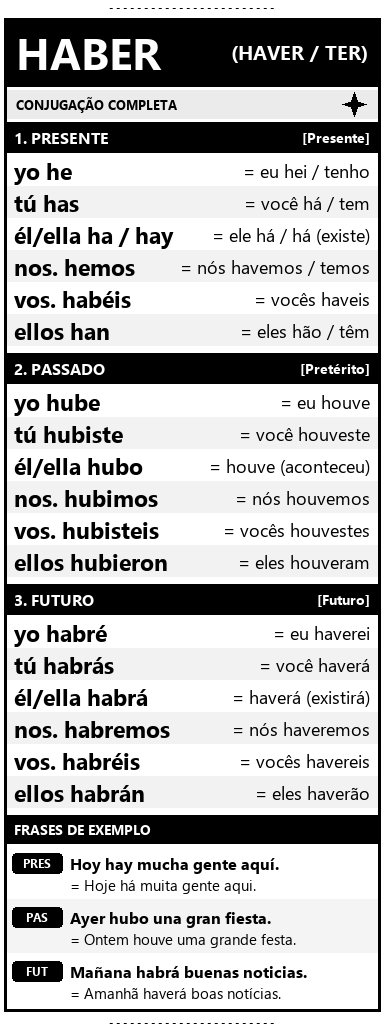
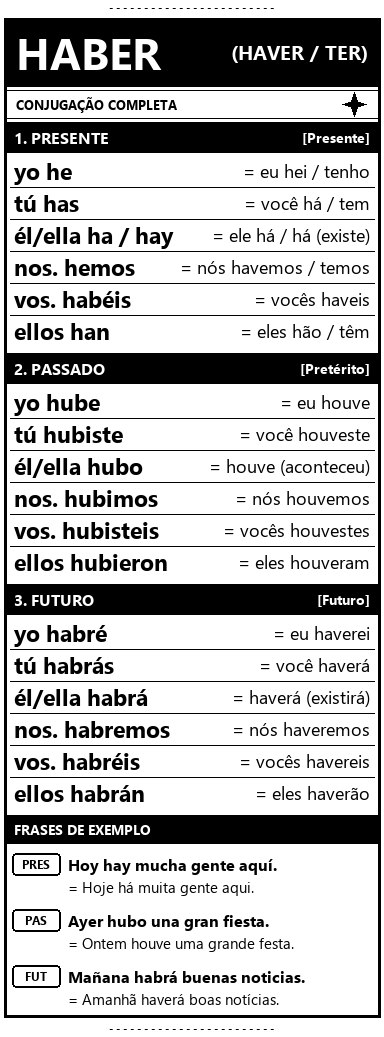
style: replace gray zebra shading with thin 1px dividers, convert black chips to clean outlined badges, and optimize motor pacing

Changed region(s): [[0.0312, 0.031, 0.9688, 0.9932], [0.1562, 0.031, 0.1875, 0.0621]]

diff --git a/generate_verb_strip.py b/generate_verb_strip.py
@@ -703,13 +703,13 @@ def generate_verb_strip(verb_key: str) -> Image.Image:
     draw.text((WIDTH - 16, y + 34), f"({data['pt']})", fill=(255, 255, 255), anchor="rm", font=get_font(20, bold=True))
     y += 72
 
-    # 2. Barra de Ícone
-    draw.rectangle([(4, y), (WIDTH - 4, y + 28)], fill=(235, 235, 235))
+    # 2. Barra de Ícone limpa (Fundo branco com linha fina)
+    draw.rectangle([(4, y), (WIDTH - 4, y + 28)], outline=(0, 0, 0), width=1, fill=(255, 255, 255))
     draw.text((16, y + 14), "CONJUGAÇÃO COMPLETA", fill=(0, 0, 0), anchor="lm", font=get_font(13, bold=True))
     draw_generic_icon(draw, data.get("icon", "check"), WIDTH - 48, y + 2)
     y += 32
 
-    # 3. Blocos de Conjugação com FONTES GIGANTES (23pt BOLD / 18pt PT)
+    # 3. Blocos de Conjugação (Zero cinza, linhas divisórias finas de 1px)
     font_es = get_font(23, bold=True)
     font_pt = get_font(18, bold=False)
     
@@ -728,12 +728,13 @@ def generate_verb_strip(verb_key: str) -> Image.Image:
             f_pt_cur = font_pt if w_total <= WIDTH - 20 else get_font(16, bold=False)
 
             row_h = 32
-            if idx % 2 == 1:
-                draw.rectangle([(4, cur_y - 1), (WIDTH - 4, cur_y + row_h - 2)], fill=(242, 242, 242))
-            
             draw.text((14, cur_y + row_h // 2 - 1), es_clean, fill=(0, 0, 0), anchor="lm", font=f_es_cur)
             draw.text((WIDTH - 14, cur_y + row_h // 2 - 1), f"= {pt}", fill=(0, 0, 0), anchor="rm", font=f_pt_cur)
             cur_y += row_h
+
+            # Linha divisória fina de 1px entre cada linha
+            if idx < len(conjugations) - 1:
+                draw.line([(10, cur_y), (WIDTH - 10, cur_y)], fill=(0, 0, 0), width=1)
             
         return cur_y + 6
 
@@ -741,7 +742,7 @@ def generate_verb_strip(verb_key: str) -> Image.Image:
     y = render_tense_block(y, "2. PASSADO", "Pretérito", data["past"])
     y = render_tense_block(y, "3. FUTURO", "Futuro", data["future"])
 
-    # 4. Frases de Demonstração
+    # 4. Frases de Demonstração (Tags vazadas com contorno fino - sem 'chip preto')
     draw.rectangle([(4, y), (WIDTH - 4, y + 28)], fill=(0, 0, 0))
     draw.text((14, y + 14), "FRASES DE EXEMPLO", fill=(255, 255, 255), anchor="lm", font=get_font(14, bold=True))
     y += 30
@@ -750,19 +751,20 @@ def generate_verb_strip(verb_key: str) -> Image.Image:
     font_ex_pt = get_font(15, bold=False)
 
     for idx, (tense, es_phrase, pt_phrase) in enumerate(data["examples"]):
-        bg_col = (255, 255, 255) if idx % 2 == 0 else (244, 244, 244)
-        box_h = 54
-        draw.rectangle([(4, y), (WIDTH - 4, y + box_h)], fill=bg_col)
+        box_h = 56
+        draw.rectangle([(4, y), (WIDTH - 4, y + box_h)], fill=(255, 255, 255))
         
-        draw.rounded_rectangle([(12, y + 8), (62, y + 28)], radius=4, fill=(0, 0, 0))
-        draw.text((37, y + 18), tense, fill=(255, 255, 255), anchor="mm", font=get_font(12, bold=True))
+        # Tag vazada com contorno de 1px (evita o borrão preto)
+        tag_w = 48
+        draw.rounded_rectangle([(12, y + 8), (12 + tag_w, y + 30)], radius=4, outline=(0, 0, 0), width=2, fill=(255, 255, 255))
+        draw.text((12 + tag_w // 2, y + 19), tense, fill=(0, 0, 0), anchor="mm", font=get_font(12, bold=True))
         
-        draw.text((70, y + 18), es_phrase, fill=(0, 0, 0), anchor="lm", font=font_ex_es)
-        draw.text((70, y + 39), f"= {pt_phrase}", fill=(0, 0, 0), anchor="lm", font=font_ex_pt)
+        draw.text((68, y + 19), es_phrase, fill=(0, 0, 0), anchor="lm", font=font_ex_es)
+        draw.text((68, y + 41), f"= {pt_phrase}", fill=(0, 0, 0), anchor="lm", font=font_ex_pt)
         
         y += box_h
         if idx < len(data["examples"]) - 1:
-            draw.line([(12, y), (WIDTH - 12, y)], fill=(200, 200, 200), width=1)
+            draw.line([(10, y), (WIDTH - 10, y)], fill=(0, 0, 0), width=1)
 
     y += 4
     draw.rectangle([(4, card_start_y), (WIDTH - 4, y)], outline=(0, 0, 0), width=3)

diff --git a/phomemo.py b/phomemo.py
@@ -86,8 +86,8 @@ class PhomemoM02:
         self.ser.flush()
         time.sleep(0.05)
 
-        # Transmissão em blocos de 32 linhas para respeitar o buffer de memória da M02
-        CHUNK_ROWS = 32
+        # Transmissão contínua em blocos de 48 linhas para fluxo suave sem travadinhas
+        CHUNK_ROWS = 48
         for start_y in range(0, height, CHUNK_ROWS):
             block_height = min(CHUNK_ROWS, height - start_y)
             block_data = bytearray()
@@ -110,8 +110,8 @@ class PhomemoM02:
 
             self.ser.write(block_data)
             self.ser.flush()
-            # Pausa para o cabeçote térmico processar as 32 linhas sem estourar o buffer
-            time.sleep(0.22)
+            # Pausa ajustada para coincidir com a queima contínua do motor (sem parar)
+            time.sleep(0.08)
 
         # Feed de avanço final
         feed_cmd = bytearray()
